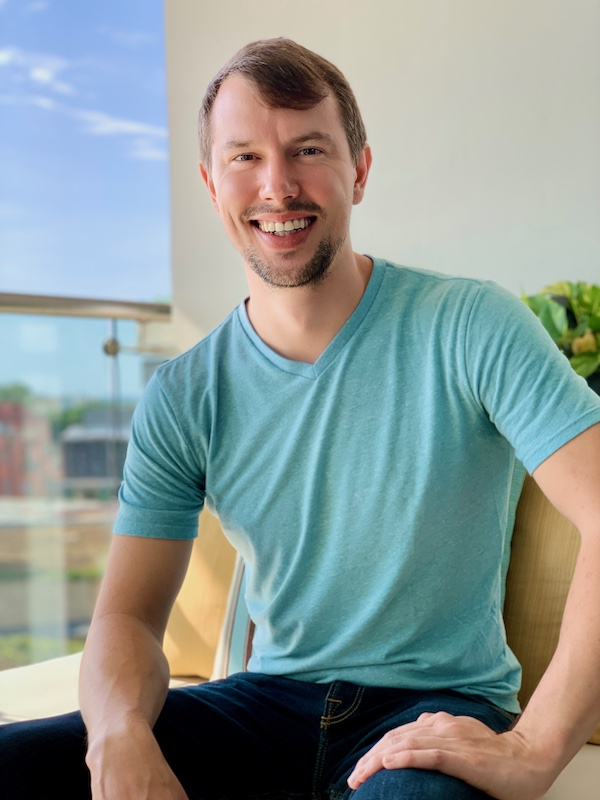
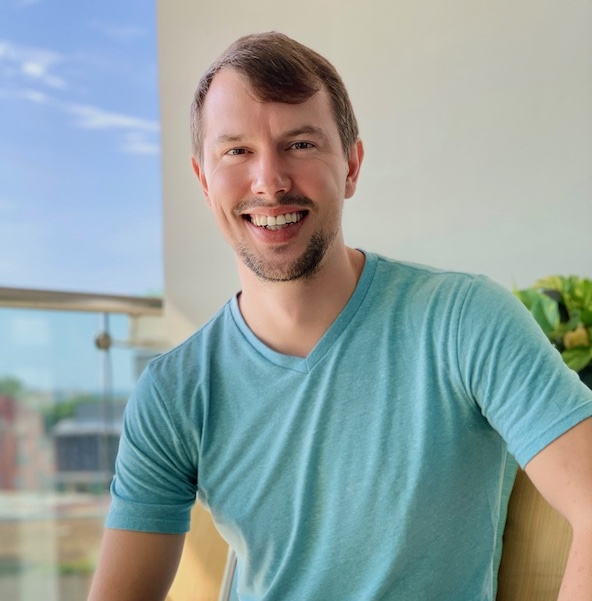
style wedding party page

diff --git a/pages/travel/index.tsx b/pages/travel/index.tsx
@@ -14,27 +14,56 @@ const Travel: React.FunctionComponent = () => {
             <div className={styles['travel__details--container']}>
               <span className={`${styles['travel__details--block']} ${styles['travel__details--block-1']}`} />
               <div className={styles['travel__details']}>
-                <h2>Swanson Residence</h2>
-                <p>Address: <a href="https://goo.gl/maps/NndR1pL8ptDMCx3k7" rel="noreferrer" target="_blank">499 Market Street Basalt, Colorado 81621</a></p>
-                <p>Ceremony and reception in the backyard</p>
-                <p>Parking allowed around the neighborhood</p>
-                <p>Shuttle service from the Element hotel</p>
-                <p>Dress attire is business casual - wear appropriate shoes for grass and bring a light sweater or coat for the evening</p>
+                <h2>Ceremony</h2>
+                <p>Swanson residence address: <a href="https://goo.gl/maps/NndR1pL8ptDMCx3k7" rel="noreferrer" target="_blank">499 Market Street Basalt, Colorado 81621</a></p>
+                <p>Ceremony starts at 6:00pm with reception to follow</p>
+                <p>Pre-ceremony beverage welcome gathering to begin at 5:00pm</p>
+                <p>Shuttle service provided between the house and the Element hotel between 5:00pm - 12:00am</p>
               </div>
             </div>
           </div>
           <div className="flex-half">
-            <div className={`${styles['travel__image']} ${styles['travel__image-1']}`} role="img"  style={{ backgroundImage: `url('/wedding-venue.jpg')` }} />
+            <div className={`${styles['travel__image']} ${styles['travel__image-1']}`} role="img" style={{ backgroundImage: `url('/wedding-venue.jpg')` }} />
+          </div>
+        </div>
+        <div className={`flex-wrapper ${styles['travel__section']}`}>
+          <div className="flex-half flex-half-2">
+            <div className={`${styles['travel__image']} ${styles['travel__image-2']}`} role="img" style={{ backgroundImage: `url('/map.jpg')` }} />
+          </div>
+          <div className="flex-half flex-half-1">
+            <div className={styles['travel__details--container']}>
+              <span className={`${styles['travel__details--block']} ${styles['travel__details--block-2']}`} />
+              <div className={styles['travel__details']}>
+                <h2>Element Hotel Distance to Venue</h2>
+                <p>Walking to venue is roughly 13 minutes and driving is 4 minutes</p>
+                <p>Parking allowed around the inner edge of Lewis Lane (green oval on the map)</p>
+              </div>
+            </div>
+          </div>
+        </div>
+        <div className={`flex-wrapper ${styles['travel__section']}`}>
+          <div className="flex-half">
+            <div className={styles['travel__details--container']}>
+              <span className={`${styles['travel__details--block']} ${styles['travel__details--block-3']}`} />
+              <div className={styles['travel__details']}>
+                <h2>Reception</h2>
+                <p>Dress attire is business casual - wear appropriate shoes for grass and dancing, and bring a light sweater or coat for the evening</p>
+                <p>Reception will begin winding down around 11:00pm with shuttle service until 12:00am</p>
+              </div>
+            </div>
+          </div>
+          <div className="flex-half">
+            <div className={`${styles['travel__image']} ${styles['travel__image-3']}`} role="img" style={{ backgroundImage: `url('/tent.png')` }} />
           </div>
         </div>
         <h1>Accommodations</h1>
         <div className={`flex-wrapper ${styles['travel__section']}`}>
           <div className="flex-half flex-half-2">
-            <div className={`${styles['travel__image']} ${styles['travel__image-2']}`} role="img"  style={{ backgroundImage: `url('/element-hotel.jpeg')` }} />
+            <div className={`${styles['travel__image']} ${styles['travel__image-4']}`} role="img" style={{ backgroundImage: `url('/element-hotel.jpeg')` }} />
           </div>
           <div className="flex-half flex-half-1">
             <div className={styles['travel__details--container']}>
-              <span className={`${styles['travel__details--block']} ${styles['travel__details--block-2']}`} />
+              <span className={`${styles['travel__details--block']} ${styles['travel__details--block-4']}`} />
               <div className={styles['travel__details']}>
                 <h2>Element Basalt</h2>
                 <p>Address: <a href="https://g.page/elementbasaltaspen?share" rel="noreferrer" target="_blank">499 Market Street Basalt, Colorado 81621</a></p>
@@ -49,7 +78,7 @@ const Travel: React.FunctionComponent = () => {
         <div className={`flex-wrapper ${styles['travel__section']}`}>
           <div className="flex-half">
             <div className={styles['travel__details--container']}>
-              <span className={`${styles['travel__details--block']} ${styles['travel__details--block-3']}`} />
+              <span className={`${styles['travel__details--block']} ${styles['travel__details--block-5']}`} />
               <div className={styles['travel__details']}>
                 <h2>Basalt Mountain Inn</h2>
                 <p>Address: <a href="https://goo.gl/maps/Abo4gPdov4RusnPw8" rel="noreferrer" target="_blank">220 Midland Ave, Basalt, CO 81621</a> (located in downtown Basalt)</p>
@@ -59,16 +88,16 @@ const Travel: React.FunctionComponent = () => {
             </div>
           </div>
           <div className="flex-half">
-            <div className={`${styles['travel__image']} ${styles['travel__image-3']}`} role="img"  style={{ backgroundImage: `url('/basalt-mountain-inn.jpeg')` }} />
+            <div className={`${styles['travel__image']} ${styles['travel__image-5']}`} role="img" style={{ backgroundImage: `url('/basalt-mountain-inn.jpeg')` }} />
           </div>
         </div>
         <div className={`flex-wrapper ${styles['travel__section']}`}>
           <div className="flex-half flex-half-2">
-            <div className={`${styles['travel__image']} ${styles['travel__image-4']}`} role="img"  style={{ backgroundImage: `url('/marble-distillery-inn.jpeg')` }} />
+            <div className={`${styles['travel__image']} ${styles['travel__image-6']}`} role="img" style={{ backgroundImage: `url('/marble-distillery-inn.jpeg')` }} />
           </div>
           <div className="flex-half flex-half-1">
             <div className={styles['travel__details--container']}>
-              <span className={`${styles['travel__details--block']} ${styles['travel__details--block-4']} `} />
+              <span className={`${styles['travel__details--block']} ${styles['travel__details--block-6']} `} />
               <div className={styles['travel__details']}>
                 <h2>Carbondale Hotels</h2>
                 <p><a href="https://g.page/MarbleDistilling?share" rel="noreferrer" target="_blank">Marble Distilling Co. & The Distillery In</a></p>
@@ -82,8 +111,9 @@ const Travel: React.FunctionComponent = () => {
         <div className={`flex-wrapper ${styles['travel__section']}`}>
           <div className="flex-half">
             <div className={styles['travel__details--container']}>
-              <span className={`${styles['travel__details--block']} ${styles['travel__details--block-5']}`} />
+              <span className={`${styles['travel__details--block']} ${styles['travel__details--block-1']}`} />
               <div className={styles['travel__details']}>
+                <h2>Flying to Aspen</h2>
                 <p>Flying into Aspen/Pitkin airport (ASE) is the closest option to Basalt (~20 minute drive to Hotel).</p>
                 <ul>
                   <li>Direct flights offered by United and American Airlines</li>
@@ -95,17 +125,18 @@ const Travel: React.FunctionComponent = () => {
             </div>
           </div>
           <div className="flex-half">
-            <div className={`${styles['travel__image']} ${styles['travel__image-5']}`} role="img"  style={{ backgroundImage: `url('/aspen-pitkin-airport.jpeg')` }} />
+            <div className={`${styles['travel__image']} ${styles['travel__image-7']}`} role="img" style={{ backgroundImage: `url('/aspen-pitkin-airport.jpeg')` }} />
           </div>
         </div>
         <div className={`flex-wrapper ${styles['travel__section']}`}>
           <div className="flex-half flex-half-2">
-            <div className={`${styles['travel__image']} ${styles['travel__image-6']}`} role="img"  style={{ backgroundImage: `url('/glenwood-canyon.jpeg')` }} />
+            <div className={`${styles['travel__image']} ${styles['travel__image-8']}`} role="img" style={{ backgroundImage: `url('/glenwood-canyon.jpeg')` }} />
           </div>
           <div className="flex-half flex-half-1">
             <div className={styles['travel__details--container']}>
-              <span className={`${styles['travel__details--block']} ${styles['travel__details--block-6']}`} />
+              <span className={`${styles['travel__details--block']} ${styles['travel__details--block-2']}`} />
               <div className={styles['travel__details']}>
+                <h2>Flying to Denver</h2>
                 <p>Flying into Denver airport (DEN) is probably the cheapest option to get to CO. Leaves roughly a 3.5 hour drive west on I-70 through the scenic Coloradan Rocky Mountains to get to Basalt.</p>
                 <ul>
                   <li>Direct flights offered by: Southwest, United, Delta, American, Spirit, Frontier, and JetBlue Airlines</li>

diff --git a/pages/wedding-party/index.tsx b/pages/wedding-party/index.tsx
@@ -9,57 +9,64 @@ const WeddingParty: React.FunctionComponent = () => {
       <Nav />
       <main className={styles['wedding-party']}>
         <h1>Wedding Party</h1>
-        <h2>The Gentlemen</h2>
-        <ul>
-          <li>
-            <div>
-              <div className={styles['wedding-party__headshot']}>
-                <img src="/ben.jpg" height="" width="" />
+        <div className={styles['wedding-party__headshots']}>
+          <ul>
+            <li><h2 className={styles['wedding-party__subtitle']}>The Lads</h2></li>
+            <li className={styles['wedding-party__profile']}>
+              <div className={styles['wedding-party__headshot']} style={{ backgroundImage: `url('/ben.jpg')` }}>
+                <p>Best Man: Ben Barton</p>
               </div>
-              <p>Ben Barton</p>
-            </div>
-          </li>
-          <li>
-            <div>
-              <div className={styles['wedding-party__headshot']}>
-                <img src="/xander.jpg" height="" width="" />
+            </li>
+            <li className={styles['wedding-party__profile']}>
+              <div className={styles['wedding-party__headshot']} style={{ backgroundImage: `url('/xander.jpg')` }}>
+                <p>Xander Starekow</p>
               </div>
-              <p>Xander Starekow</p>
-            </div>
-          </li>
-          <li>
-            <div>
-              <div className={styles['wedding-party__headshot']}>
-                <img src="/matty.jpg" height="" width="" />
+            </li>
+            <li className={styles['wedding-party__profile']}>
+              <div className={styles['wedding-party__headshot']} style={{ backgroundImage: `url('/matty.jpg')` }}>
+                <p>Matty Williams</p>
               </div>
-              <p>Matty Williams</p>
-            </div>
-          </li>
-          <li>
-            <div>
-              <div className={styles['wedding-party__headshot']}>
-                <img src="/taylor.jpg" height="" width="" />
+            </li>
+            <li className={styles['wedding-party__profile']}>
+              <div className={styles['wedding-party__headshot']} style={{ backgroundImage: `url('/taylor.jpg')` }}>
+                <p>Taylor Garner</p>
               </div>
-              <p>Taylor Garner</p>
-            </div>
-          </li>
-          <li>
-            <div>
-              <div className={styles['wedding-party__headshot']}>
-                <img src="/cosi.jpg" height="" width="" />
-              </div>  
-              <p>Cosimo Leone</p>
-            </div>
-          </li>
-        </ul>
-        <h2>The Ladies</h2>
-        <ul>
-          <li>Nicole Beckett</li>
-          <li>Kristen Wakeman</li>
-          <li>Alicia Hays</li>
-          <li>Lindesy Moore</li>
-          <li>Lucia Ulc</li>
-        </ul>
+            </li>
+            <li className={styles['wedding-party__profile']}>
+              <div className={styles['wedding-party__headshot']} style={{ backgroundImage: `url('/cosi.jpg')` }}>
+                <p>Cosimo Leone</p>
+              </div>
+            </li>
+          </ul>
+          <ul>
+            <li><h2 className={`${styles['wedding-party__subtitle']} ${styles['wedding-party__subtitle-2']}`}>The Ladies</h2></li>
+            <li className={styles['wedding-party__profile']}>
+              <div className={styles['wedding-party__headshot']} style={{ backgroundImage: `url('/coley.jpg')` }}>
+                <p>Maid of Honor: Nicole Beckett</p>
+              </div>
+            </li>
+            <li className={styles['wedding-party__profile']}>
+              <div className={styles['wedding-party__headshot']} style={{ backgroundImage: `url('/kristen.jpg')` }}>
+                <p>Kristen Wakeman</p>
+              </div>
+            </li>
+            <li className={styles['wedding-party__profile']}>
+              <div className={styles['wedding-party__headshot']} style={{ backgroundImage: `url('/alicia.jpg')` }}>
+                <p>Alicia Hays</p>
+              </div>
+            </li>
+            <li className={styles['wedding-party__profile']}>
+              <div className={styles['wedding-party__headshot']} style={{ backgroundImage: `url('/lindsey.jpg')` }}>
+                <p>Lindesy Moore</p>
+              </div>
+            </li>
+            <li className={styles['wedding-party__profile']}>
+              <div className={styles['wedding-party__headshot']} style={{ backgroundImage: `url('/lucia.jpg')` }}>
+                <p>Lucia Ulc</p>
+              </div>
+            </li>
+          </ul>
+        </div>
       </main>
     </>
   );

diff --git a/pages/wedding-party/wedding-party.module.scss b/pages/wedding-party/wedding-party.module.scss
@@ -2,21 +2,76 @@
 @import '../../styles/utils/media-queries';
 
 .wedding-party {
+  background-color: lighten($blue, 10%);
 
   > h1 {
+    margin-bottom: 30px;
     text-align: center;
 
     @include respond_to(desktop) {
-      margin-top: 30px;
+      margin: 30px 0;
+    }
+  }
+
+  &__subtitle {
+    text-align: center;
+
+    &-2 {
+      margin-top: 60px;
+
+      @include respond_to(tablet-and-larger) {
+        margin-top: 0;
+      }
+    }
+  }
+
+  &__headshots {
+    @include respond_to(tablet-and-larger) {
+      display: flex;
+      justify-content: center;
+      flex-direction: row;
+    }
+  }
+
+  &__profile {
+    display: flex;
+    justify-content: center;
+    margin: 0 10px 30px 40px;
+
+    @include respond_to(tablet-and-larger) {
+      margin: 0 30px 50px 60px;
     }
   }
 
   &__headshot {
-    max-width: 400px;
+    background-position: center;
+    background-repeat: no-repeat;
+    background-size: cover;
+    border-radius: 6px;
+    height: 300px;
+    position: relative;
+    width: 100%;
 
-    > img {
-      max-height: 100%;
-      max-width: 100%;
+    @include respond_to(mobile-small-and-larger) {
+      height: 400px;
+      width: 400px;
+    }
+
+    > p {
+      align-items: center;
+      background-color: $white;
+      border-radius: 6px 0 0 6px;
+      display: flex;
+      height: 100%;
+      justify-content: center;
+      left: -30px;
+      margin: 0;
+      position: absolute;
+      text-align: center;
+      writing-mode: vertical-lr;
+      text-orientation: mixed;
+      top: 0;
+      width: 40px;
     }
   }
 }

diff --git a/pages/travel/travel.module.scss b/pages/travel/travel.module.scss
@@ -133,16 +133,16 @@
     &-2 {
       @include respond_to(desktop) {
         background-position: left;
-        background-size: 42% 48%;
-        height: 374px;
+        background-size: 45% 55%;
+        height: 412px;
       }
     }
 
     &-3 {
       @include respond_to(desktop) {
         background-position: right;
-        background-size: 42% 48%;
-        height: 413px;
+        background-size: 42% 50%;
+        height: 367px;
       }
     }
 
@@ -150,11 +150,27 @@
       @include respond_to(desktop) {
         background-position: left;
         background-size: 42% 48%;
-        height: 366px;
+        height: 374px;
       }
     }
 
     &-5 {
+      @include respond_to(desktop) {
+        background-position: right;
+        background-size: 42% 48%;
+        height: 413px;
+      }
+    }
+
+    &-6 {
+      @include respond_to(desktop) {
+        background-position: left;
+        background-size: 42% 48%;
+        height: 366px;
+      }
+    }
+
+    &-7 {
       @include respond_to(desktop) {
         background-position: bottom right;
         background-size: 42% 48%;
@@ -162,7 +178,7 @@
       }
     }
 
-    &-6 {
+    &-8 {
       @include respond_to(desktop) {
         background-position: bottom left;
         background-size: 42% 48%;

diff --git a/pages/rsvp/index.tsx b/pages/rsvp/index.tsx
@@ -12,6 +12,7 @@ const Rsvp: React.FunctionComponent = () => {
           <div className={styles['rsvp__description']}>
             <h1>Kindly RSVP</h1>
             <p>Please fill out the form for yourself and your guest. Children are allowed, but please fill out the form for them, so that we may get an accurate head count.</p>
+            <p>If you are filling out the form more than once you will need to refresh the browser.</p>
           </div>
           <div className={styles['rsvp__form']}>
             <div className={styles['rsvp__form--container']}>
